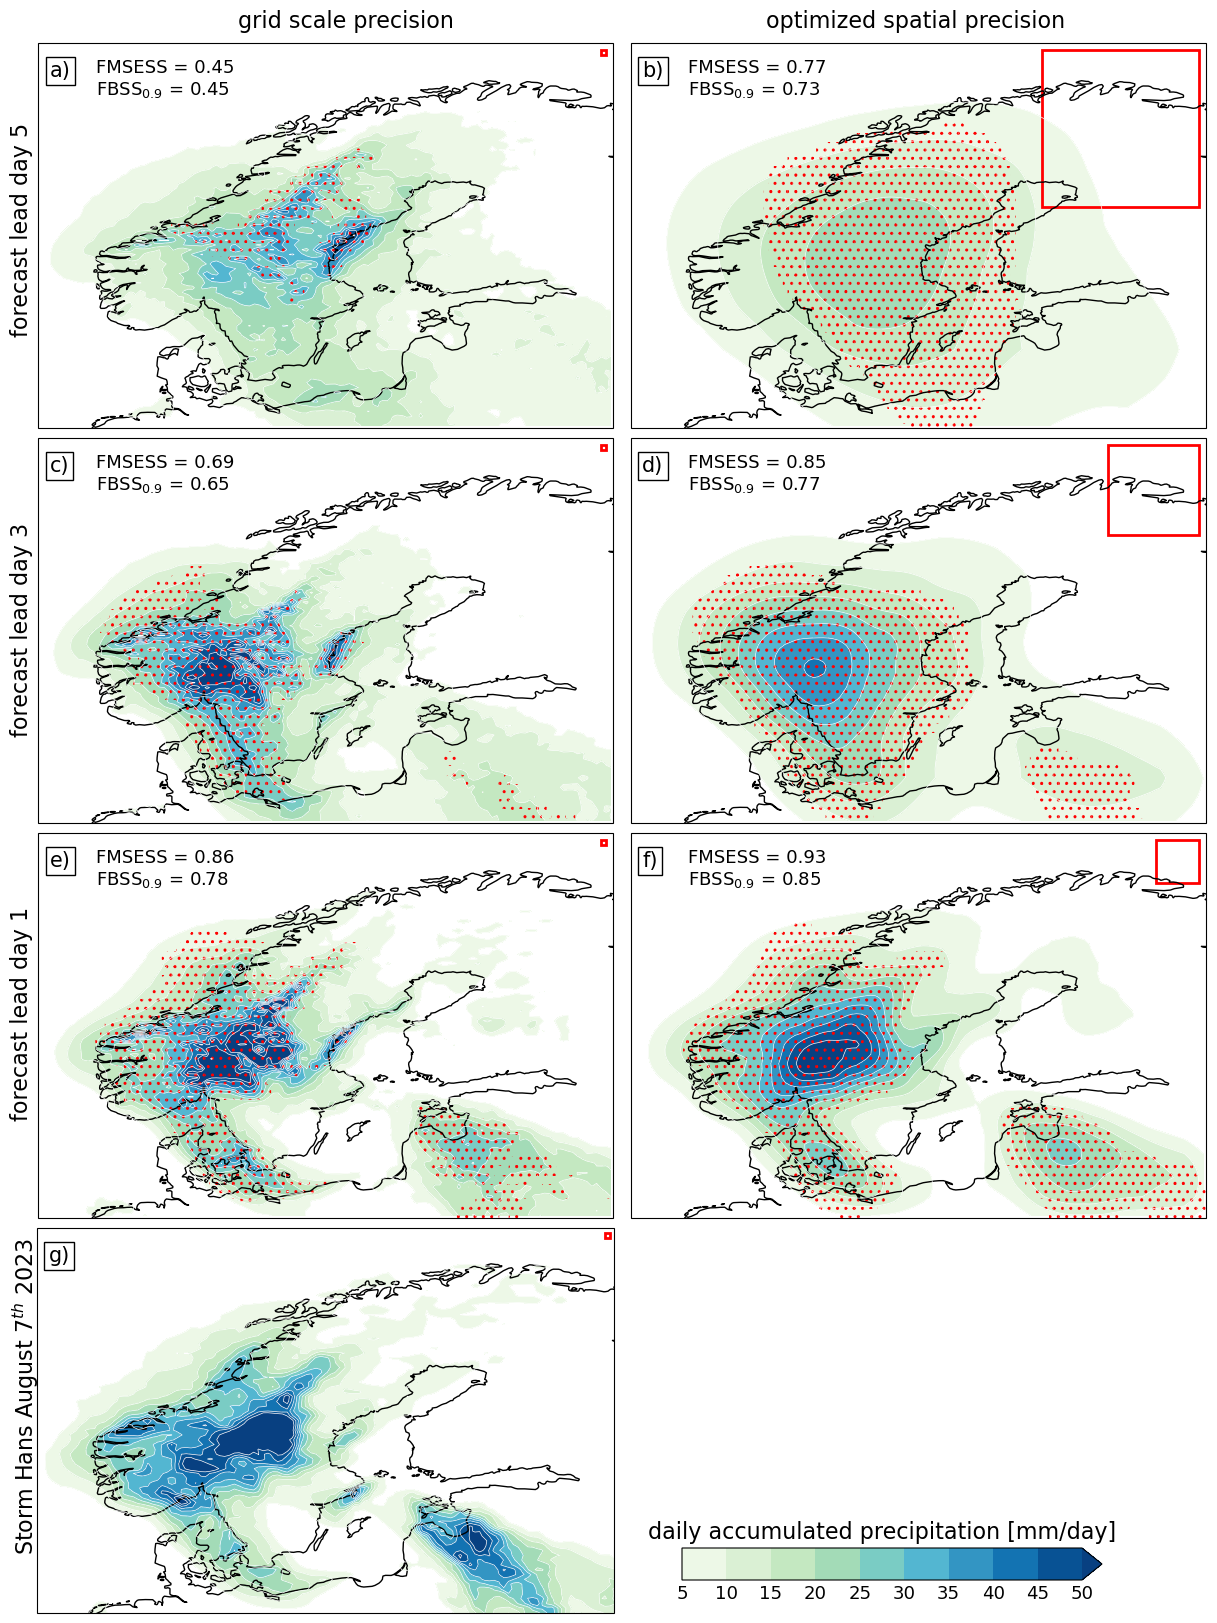
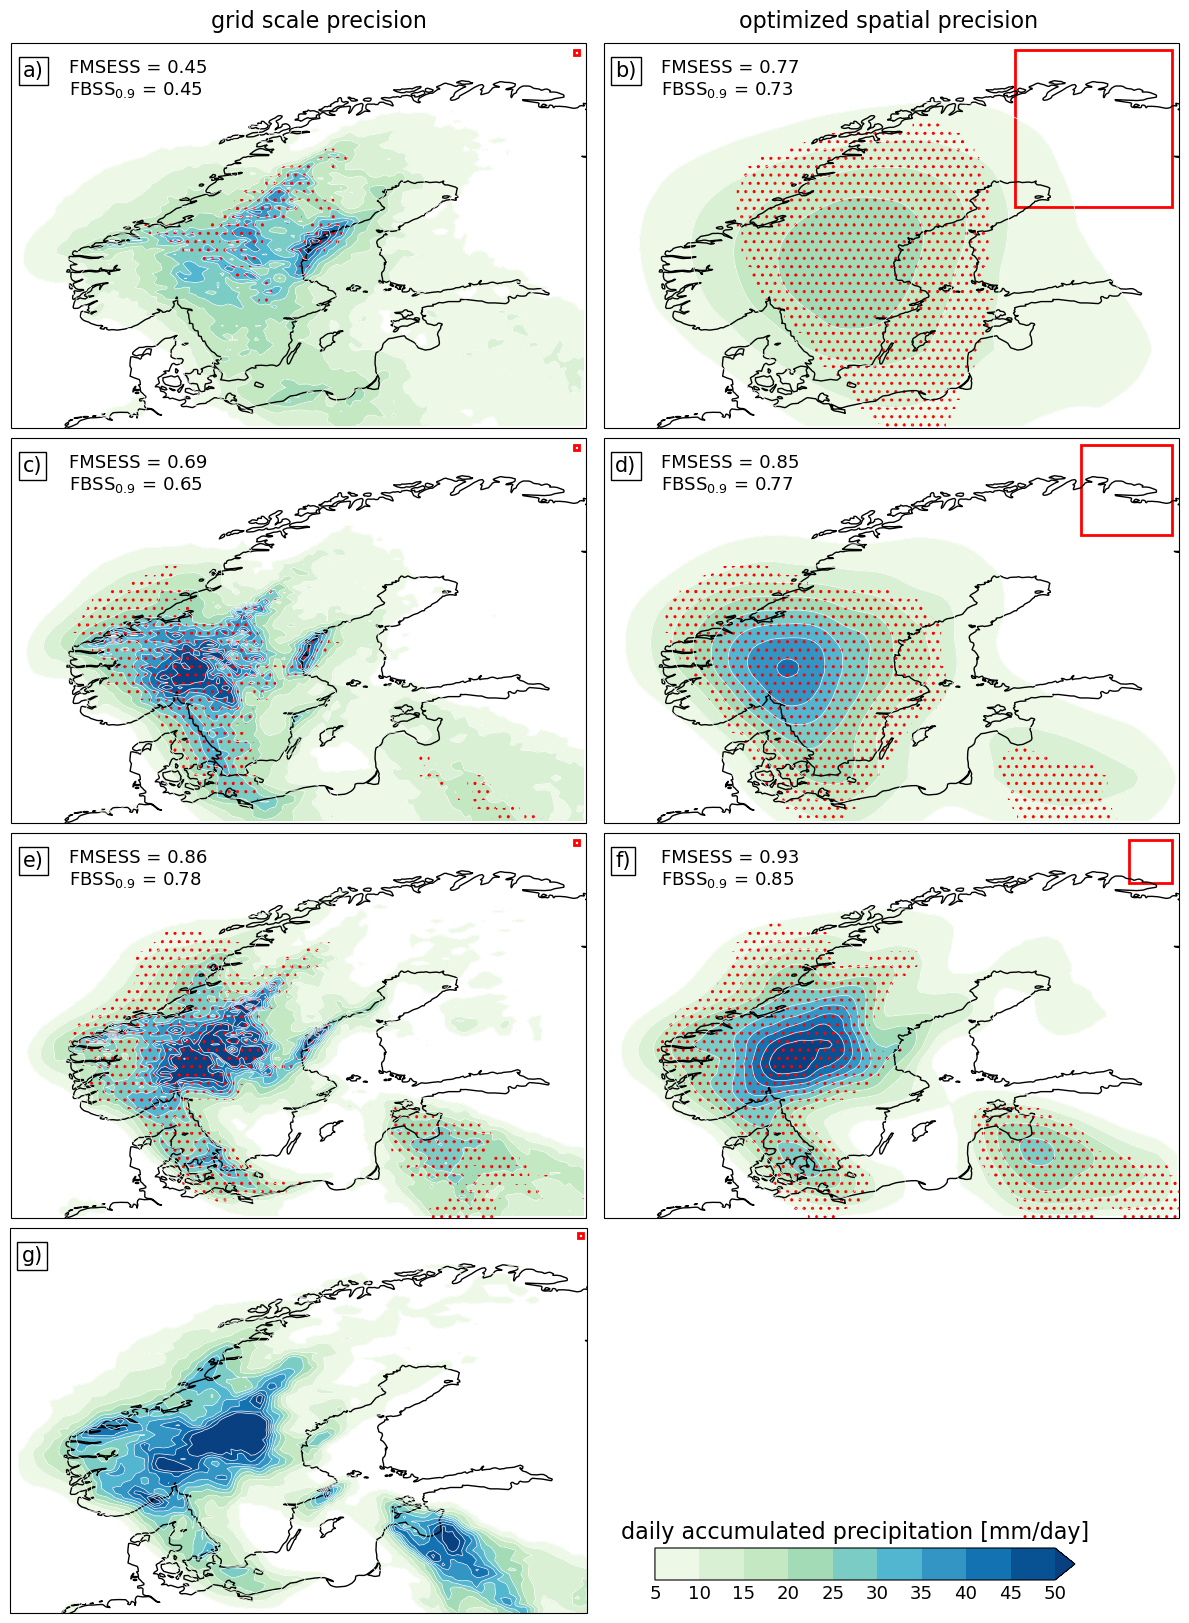
update

diff --git a/code/plot/test.py b/code/plot/test.py
@@ -125,12 +125,15 @@ cb.ax.tick_params(labelsize=fontsize+2, size=0)
 cb.ax.set_title('daily accumulated precipitation [mm/day]', fontsize=fontsize+5,y=1.01)
 
 
+
 fig.text(0.18,1.0,'grid scale precision',fontsize=fontsize+5) 
 fig.text(0.62,1.0,'optimized spatial precision',fontsize=fontsize+5)
-fig.text(-0.01,0.81,'forecast lead day 5',rotation=90,fontsize=fontsize+5)
-fig.text(-0.01,0.56,'forecast lead day 3',rotation=90,fontsize=fontsize+5)
-fig.text(-0.01,0.32,'forecast lead day 1',rotation=90,fontsize=fontsize+5)
-fig.text(-0.01,0.05,r'Storm Hans August 7$^{th}$ 2023',rotation=90,fontsize=fontsize+5)
+
+ax[0].set_ylabel('forecast lead day 5',fontsize=fontsize+5)
+#fig.text(-0.01,0.81,'forecast lead day 5',rotation=90,fontsize=fontsize+5)
+#fig.text(-0.01,0.56,'forecast lead day 3',rotation=90,fontsize=fontsize+5)
+#fig.text(-0.01,0.32,'forecast lead day 1',rotation=90,fontsize=fontsize+5)
+#fig.text(-0.01,0.05,r'Storm Hans August 7$^{th}$ 2023',rotation=90,fontsize=fontsize+5)
 
 plt.tight_layout()
 
